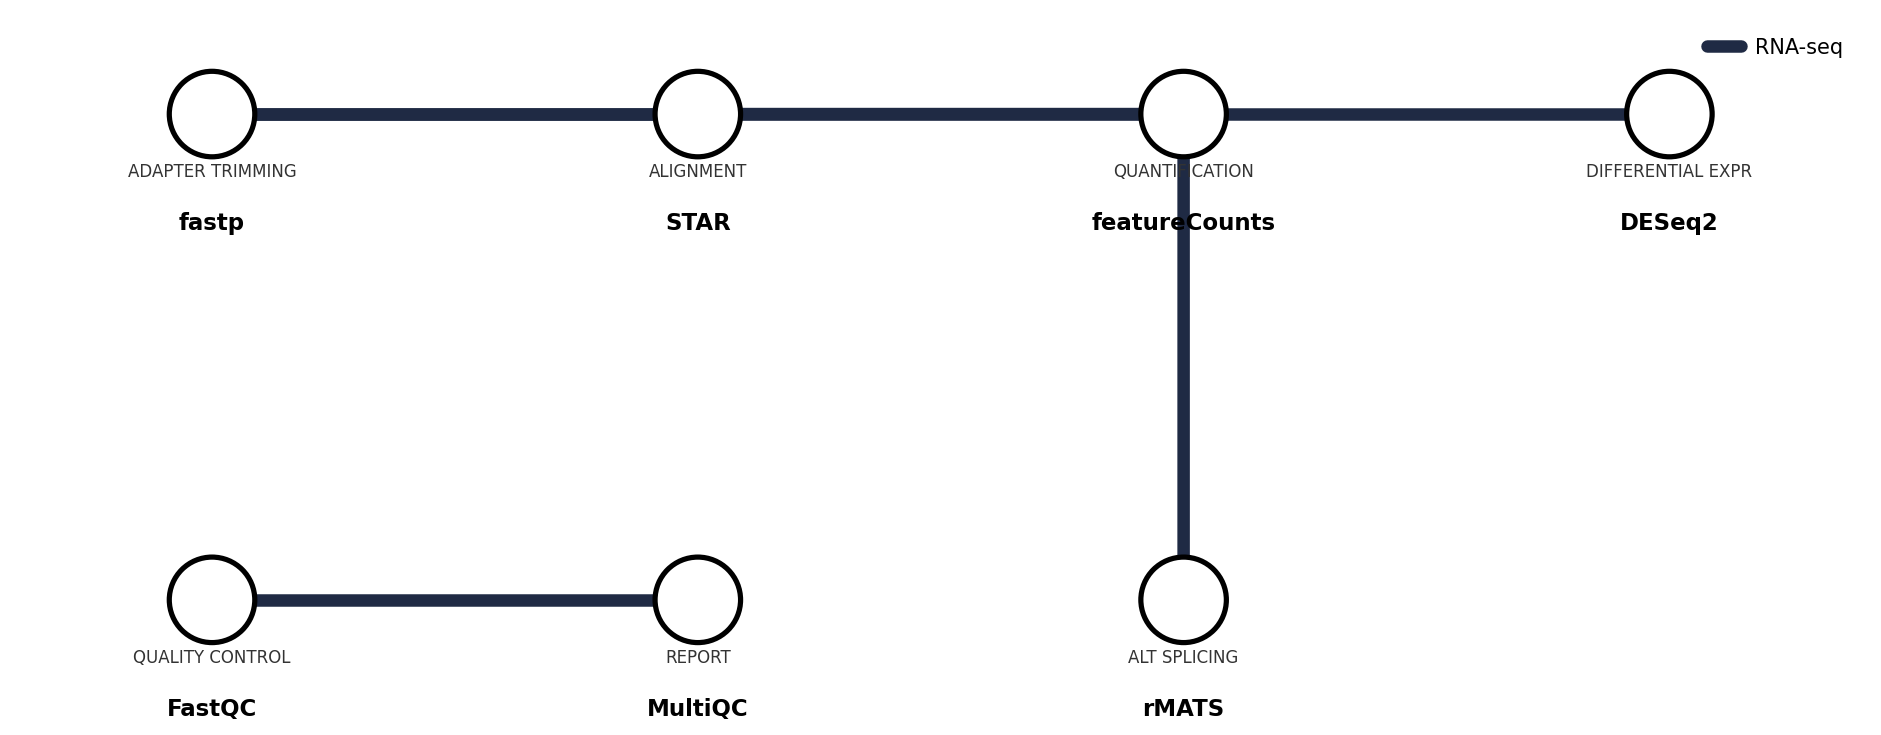
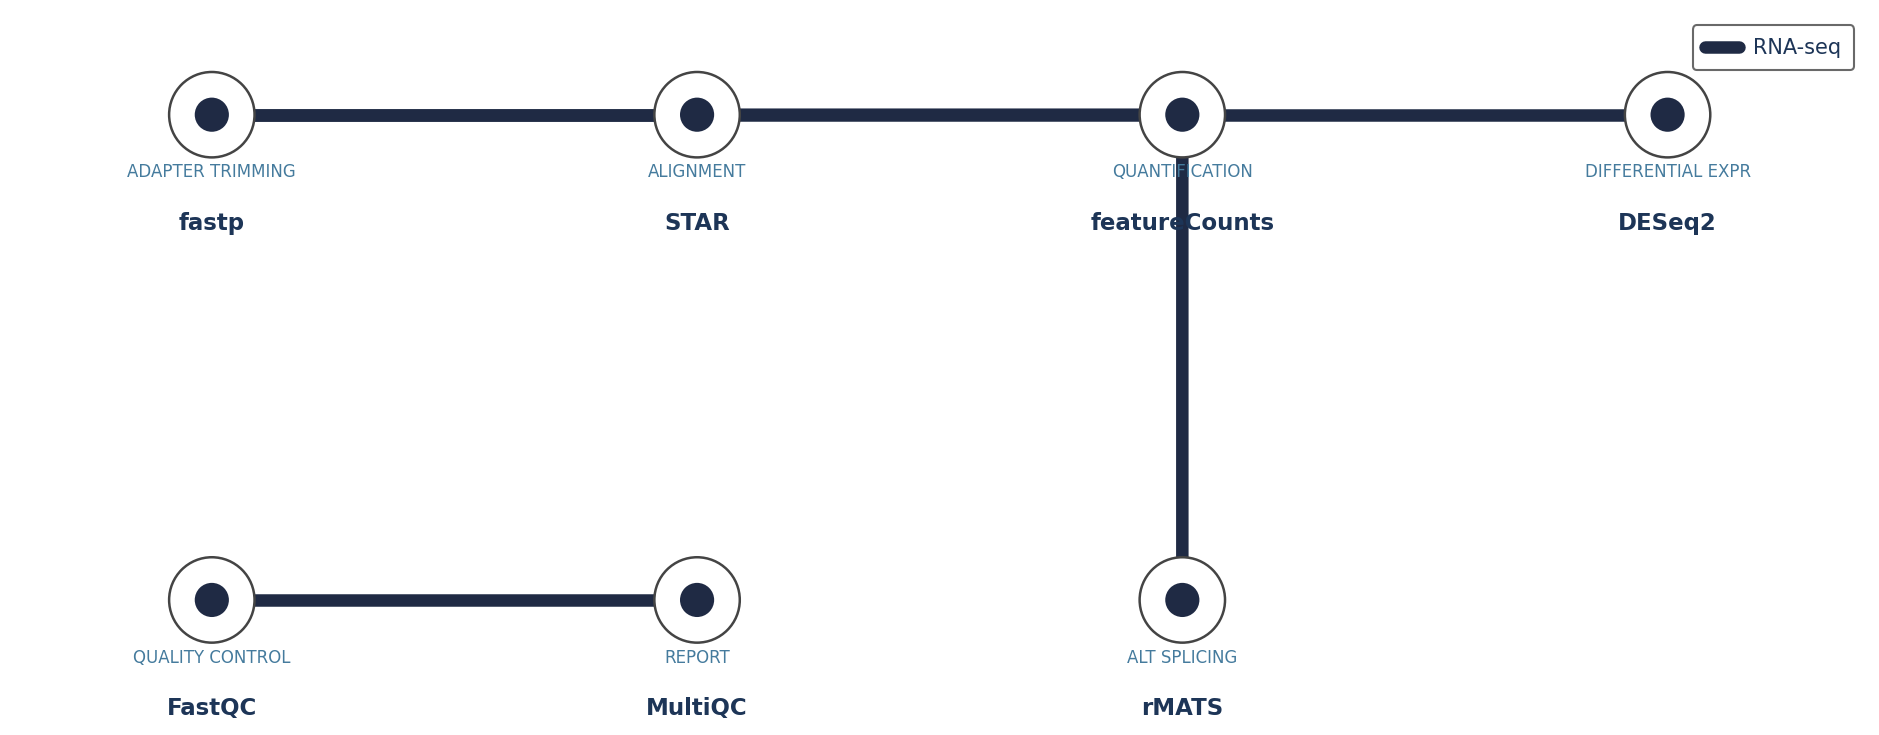
release: v0.2.0 — Mermaid parser, example images in README, test coverage
- All three parser examples are now self-contained (no external paths)
- graphics/mermaid_example.png, snakemake_example.png, nextflow_example.png
  regenerated and embedded as inline images in README
- tests/test_mermaid_io.py: 10 new tests covering parse_mermaid_text and
  from_mermaid (labels, branches, chained arrows, & syntax, edge labels,
  comments, bracket styles, overrides); 31 tests total, all pass
- pyproject.toml: 0.1.0 → 0.2.0, Alpha → Beta

https://claude.ai/code/session_01R84pBvMaTTxxxeY4Y1tWpK

diff --git a/examples/example_snakemake.py b/examples/example_snakemake.py
@@ -1,26 +1,96 @@
-"""Example: build a metroplot Diagram directly from a Snakemake workflow.
+"""Example: build a metroplot Diagram from a Snakemake workflow.
 
-This points at the cell-type annotation benchmarking project's workflow
-directory and renders the rule DAG as a subway-style figure.
+The pipeline is written inline so the example is fully self-contained.
+It mirrors a typical bulk RNA-seq Snakemake workflow: quality control,
+trimming, alignment, quantification, and differential expression.
 """
+import sys, tempfile
 from pathlib import Path
+sys.path.insert(0, "src")
 
+import matplotlib
+matplotlib.use("Agg")
 import matplotlib.pyplot as plt
 
 from metroplot.snakemake_io import from_snakemake
 
-WORKFLOW = Path.home() / "Desktop" / "benchmarking_project" / "workflow"
+SNAKEFILE = """\
+rule fastqc_raw:
+    input:  "data/{sample}.fastq.gz"
+    output: "qc/raw/{sample}_fastqc.html"
+    shell:  "fastqc {input} -o qc/raw/"
 
-d = from_snakemake(
-    WORKFLOW,
-    line_name="Cell-type annotation benchmark",
-    color="#1f2a44",
-    column_spacing=2.5,
-    branch_spacing=2.5,
-)
+rule trim_galore:
+    input:  "data/{sample}.fastq.gz"
+    output: "trimmed/{sample}_trimmed.fq.gz"
+    shell:  "trim_galore {input} -o trimmed/"
 
-fig, ax = plt.subplots(figsize=(15, 5))
+rule fastqc_trim:
+    input:  "trimmed/{sample}_trimmed.fq.gz"
+    output: "qc/trim/{sample}_fastqc.html"
+    shell:  "fastqc {input} -o qc/trim/"
+
+rule star_align:
+    input:  "trimmed/{sample}_trimmed.fq.gz"
+    output: "aligned/{sample}.bam"
+    shell:  "STAR --readFilesIn {input} --outSAMtype BAM"
+
+rule samtools_sort:
+    input:  "aligned/{sample}.bam"
+    output: "aligned/{sample}.sorted.bam"
+    shell:  "samtools sort {input} -o {output}"
+
+rule featurecounts:
+    input:  "aligned/{sample}.sorted.bam"
+    output: "counts/{sample}_counts.tsv"
+    shell:  "featureCounts -a genes.gtf -o {output} {input}"
+
+rule deseq2:
+    input:  expand("counts/{sample}_counts.tsv", sample=config["samples"])
+    output: "results/de_results.tsv"
+    script: "scripts/deseq2.R"
+
+rule multiqc:
+    input:
+        expand("qc/raw/{sample}_fastqc.html",  sample=config["samples"]),
+        expand("qc/trim/{sample}_fastqc.html", sample=config["samples"]),
+        "results/de_results.tsv"
+    output: "multiqc_report.html"
+    shell:  "multiqc ."
+"""
+
+with tempfile.TemporaryDirectory() as td:
+    (Path(td) / "Snakefile").write_text(SNAKEFILE)
+    d = from_snakemake(
+        td,
+        line_name="Bulk RNA-seq",
+        color="#1f2a44",
+        column_spacing=2.5,
+        branch_spacing=2.5,
+        label_overrides={
+            "fastqc_raw":    "FastQC",
+            "trim_galore":   "Trim Galore",
+            "fastqc_trim":   "FastQC",
+            "star_align":    "STAR",
+            "samtools_sort": "SAMtools",
+            "featurecounts": "featureCounts",
+            "deseq2":        "DESeq2",
+            "multiqc":       "MultiQC",
+        },
+        sub_overrides={
+            "fastqc_raw":    "RAW QC",
+            "trim_galore":   "TRIMMING",
+            "fastqc_trim":   "TRIM QC",
+            "star_align":    "ALIGNMENT",
+            "samtools_sort": "SORT/INDEX",
+            "featurecounts": "QUANTIFY",
+            "deseq2":        "DIFF EXPR",
+            "multiqc":       "REPORT",
+        },
+    )
+
+fig, ax = plt.subplots(figsize=(18, 5))
 d.render(ax)
-plt.tight_layout()
-plt.savefig("graphics/snakemake_example.png", dpi=150, bbox_inches="tight")
+fig.savefig("graphics/snakemake_example.png", dpi=150, bbox_inches="tight")
+plt.close(fig)
 print("wrote graphics/snakemake_example.png")

diff --git a/tests/test_mermaid_io.py b/tests/test_mermaid_io.py
@@ -1,0 +1,111 @@
+"""Tests for the Mermaid graph parser."""
+import matplotlib
+matplotlib.use("Agg")
+
+from metroplot.mermaid_io import from_mermaid, parse_mermaid_text
+
+
+SIMPLE = """
+flowchart LR
+    A[Start] --> B[Process]
+    B --> C[End]
+"""
+
+BRANCH = """
+graph LR
+    FASTQ --> TRIM
+    TRIM --> STAR & HISAT2
+    STAR & HISAT2 --> COUNTS
+    COUNTS --> DESEQ2
+"""
+
+LABELED = """
+flowchart LR
+    A[Raw] -->|filtered| B[Trimmed]
+    B --> C((QC))
+    B --> D{Branch}
+"""
+
+COMMENTS = """
+flowchart LR
+    %% this is a comment
+    A --> B %% inline comment
+    B --> C
+"""
+
+CHAINED = """
+flowchart LR
+    A --> B --> C --> D
+"""
+
+
+def test_simple_linear():
+    rules, deps = parse_mermaid_text(SIMPLE)
+    names = {r["name"] for r in rules}
+    assert names == {"A", "B", "C"}
+    assert deps["A"] == {"B"}
+    assert deps["B"] == {"C"}
+    assert "C" not in deps
+
+
+def test_labels_extracted():
+    rules, _ = parse_mermaid_text(SIMPLE)
+    by_id = {r["name"]: r["label"] for r in rules}
+    assert by_id["A"] == "Start"
+    assert by_id["B"] == "Process"
+    assert by_id["C"] == "End"
+
+
+def test_branch_multi_source_target():
+    rules, deps = parse_mermaid_text(BRANCH)
+    names = {r["name"] for r in rules}
+    assert names == {"FASTQ", "TRIM", "STAR", "HISAT2", "COUNTS", "DESEQ2"}
+    assert deps["TRIM"] == {"STAR", "HISAT2"}
+    assert deps["STAR"] == {"COUNTS"}
+    assert deps["HISAT2"] == {"COUNTS"}
+
+
+def test_edge_labels_ignored():
+    rules, deps = parse_mermaid_text(LABELED)
+    assert deps["A"] == {"B"}
+
+
+def test_bracket_styles():
+    rules, _ = parse_mermaid_text(LABELED)
+    by_id = {r["name"]: r["label"] for r in rules}
+    assert by_id["A"] == "Raw"
+    assert by_id["B"] == "Trimmed"
+    assert by_id["C"] == "QC"    # (( ))
+    assert by_id["D"] == "Branch"  # { }
+
+
+def test_comments_stripped():
+    rules, deps = parse_mermaid_text(COMMENTS)
+    names = {r["name"] for r in rules}
+    assert names == {"A", "B", "C"}
+    assert "this" not in names
+    assert deps["A"] == {"B"}
+    assert deps["B"] == {"C"}
+
+
+def test_chained_arrows():
+    _, deps = parse_mermaid_text(CHAINED)
+    assert deps["A"] == {"B"}
+    assert deps["B"] == {"C"}
+    assert deps["C"] == {"D"}
+
+
+def test_from_mermaid_returns_diagram():
+    d = from_mermaid(BRANCH, legend_loc=None)
+    assert {"FASTQ", "TRIM", "STAR", "HISAT2", "COUNTS", "DESEQ2"} <= set(d.stations)
+    assert len(d.lines) == 1
+
+
+def test_label_overrides_win():
+    d = from_mermaid(SIMPLE, label_overrides={"A": "Custom"}, legend_loc=None)
+    assert d.stations["A"].label == "Custom"
+
+
+def test_sub_overrides():
+    d = from_mermaid(SIMPLE, sub_overrides={"B": "STEP"}, legend_loc=None)
+    assert d.stations["B"].sub == "STEP"

diff --git a/README.md b/README.md
@@ -183,11 +183,17 @@ d = from_snakemake(
 d.render()
 ```
 
-End-to-end demos:
+**Mermaid** ([example_mermaid.py](examples/example_mermaid.py)):
 
-- Mermaid RNA-seq workflow → [examples/example_mermaid.py](examples/example_mermaid.py) → [graphics/mermaid_example.png](graphics/mermaid_example.png)
-- Snakemake on a real cell-type annotation benchmarking workflow → [examples/example_snakemake.py](examples/example_snakemake.py) → [graphics/snakemake_example.png](graphics/snakemake_example.png)
-- Nextflow on an nf-core-style RNA-seq pipeline → [examples/example_nextflow.py](examples/example_nextflow.py) → [graphics/nextflow_example.png](graphics/nextflow_example.png)
+<p align="center"><img src="graphics/mermaid_example.png" alt="mermaid example" width="100%"/></p>
+
+**Snakemake** ([example_snakemake.py](examples/example_snakemake.py)):
+
+<p align="center"><img src="graphics/snakemake_example.png" alt="snakemake example" width="100%"/></p>
+
+**Nextflow** ([example_nextflow.py](examples/example_nextflow.py)):
+
+<p align="center"><img src="graphics/nextflow_example.png" alt="nextflow example" width="100%"/></p>
 
 Parsers are best-effort regex-based. For anything they miss, pass extra rules/edges into `metroplot._pipeline_layout.build_diagram_from_dag` directly.
 
